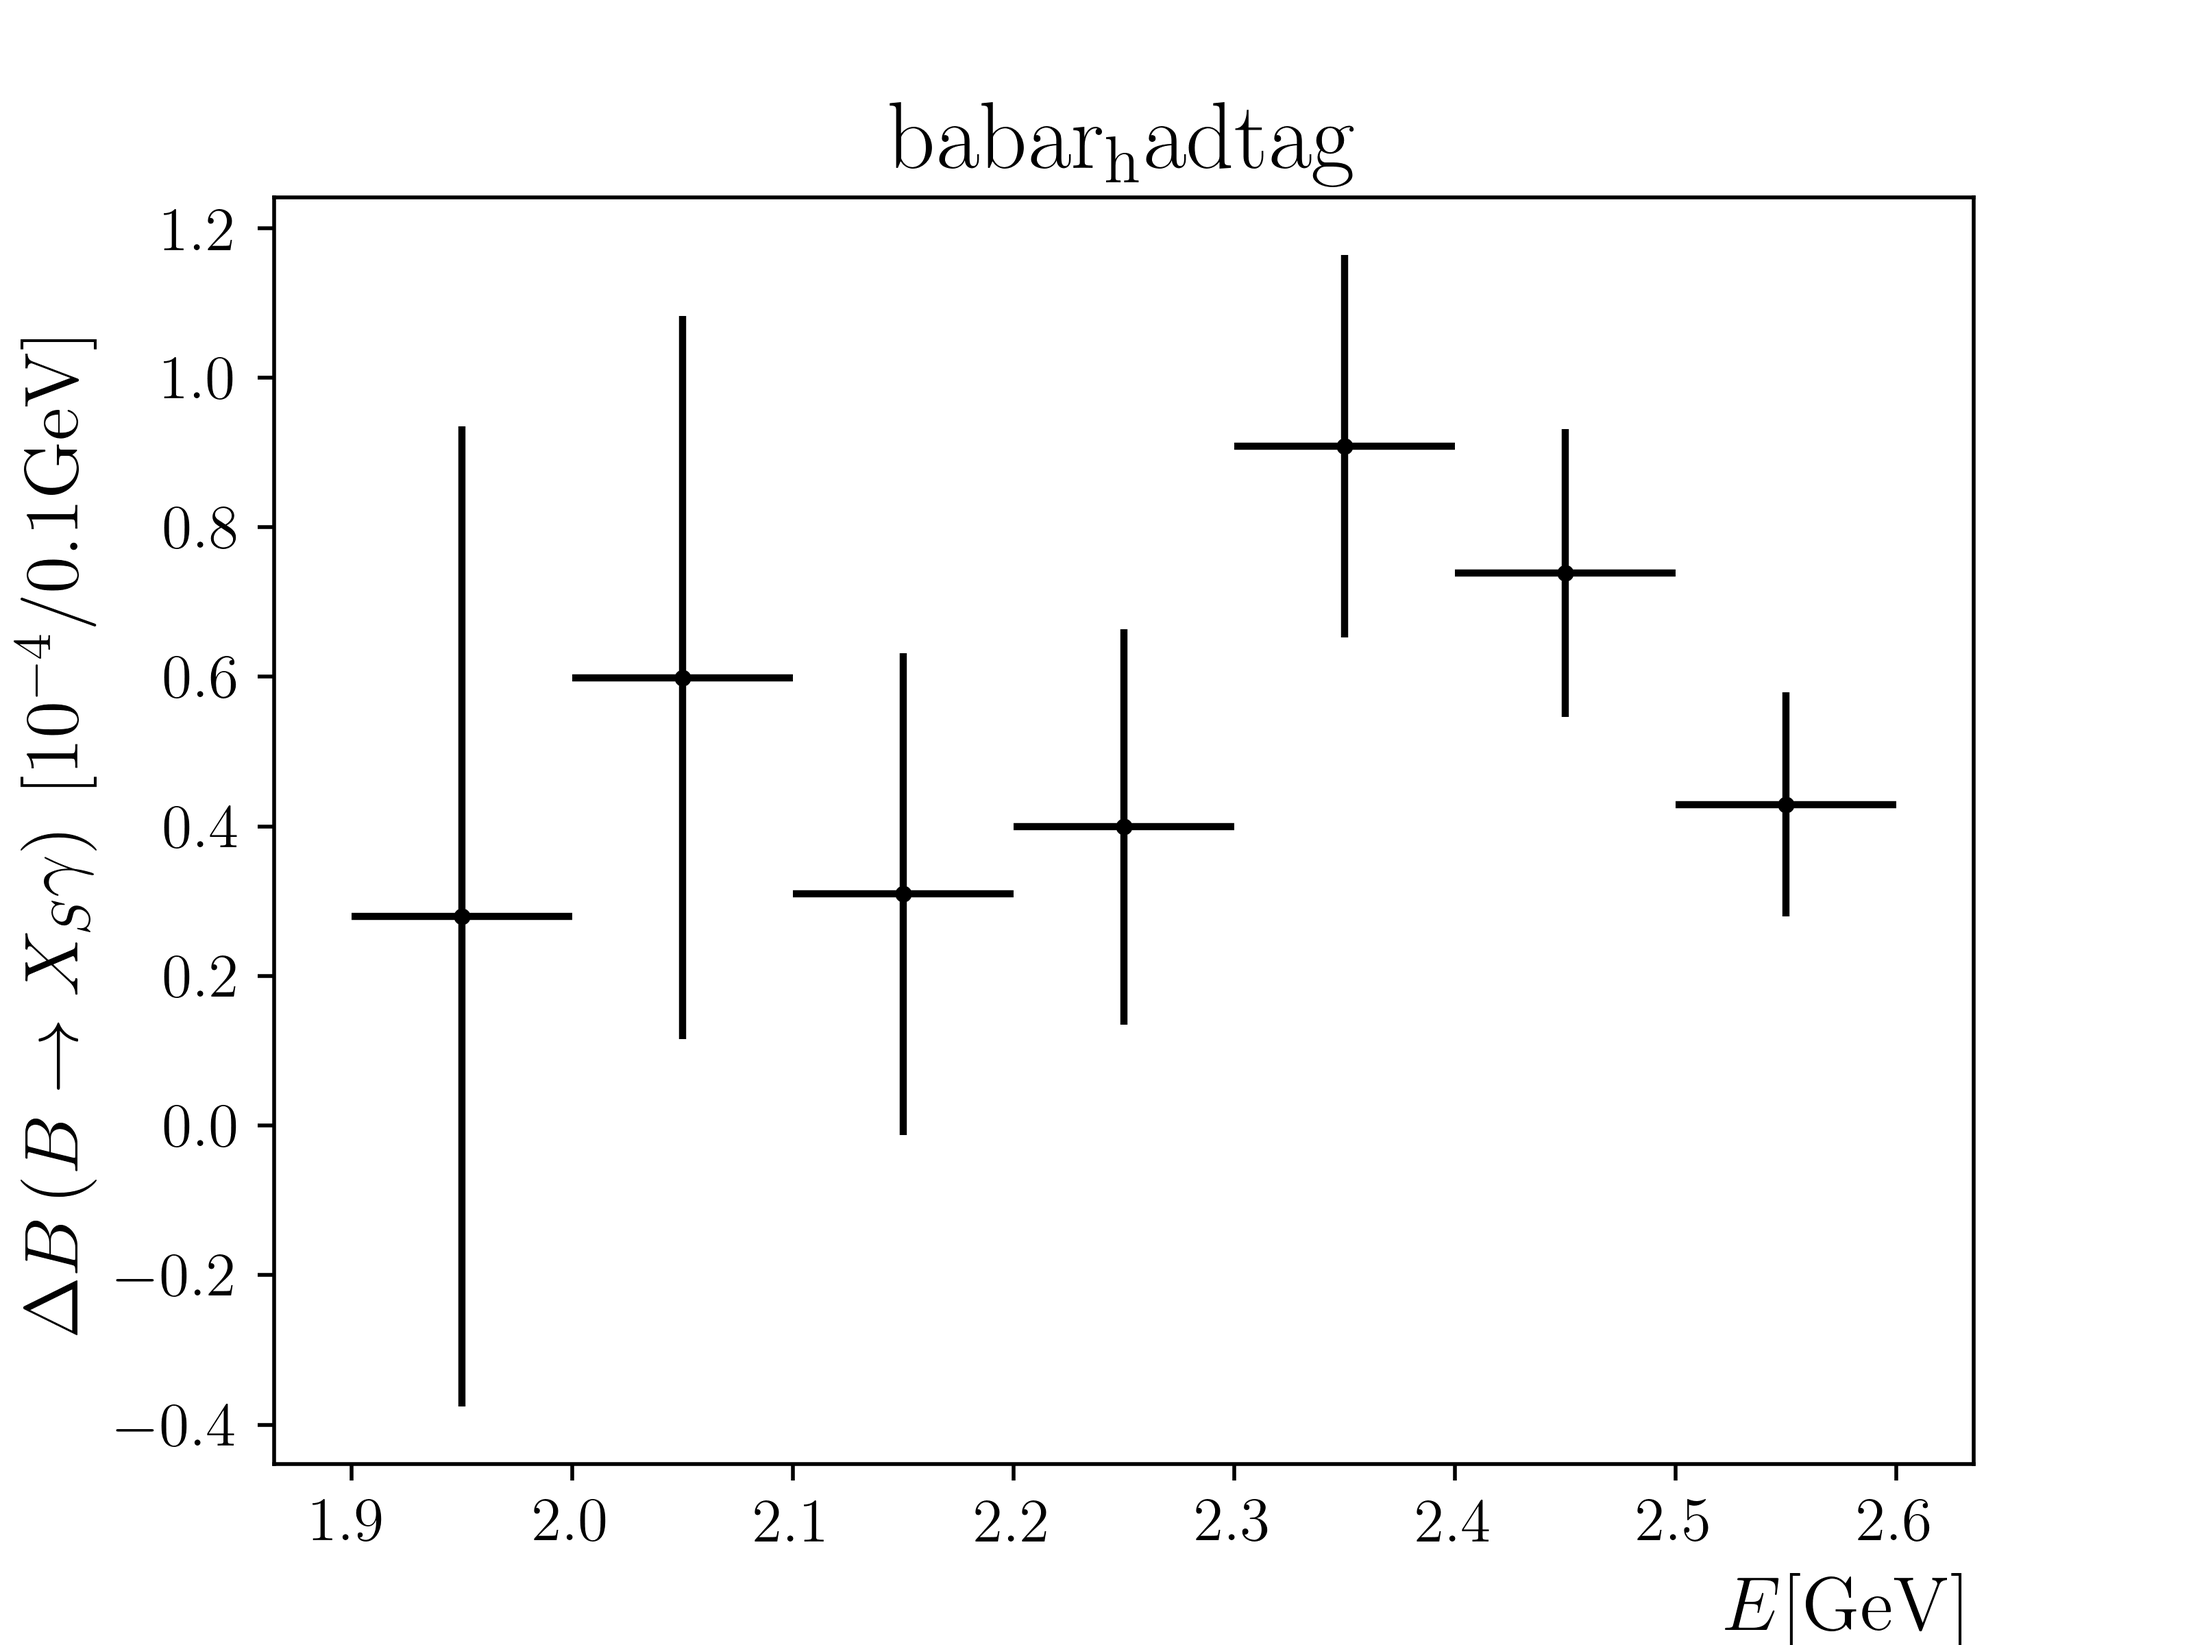
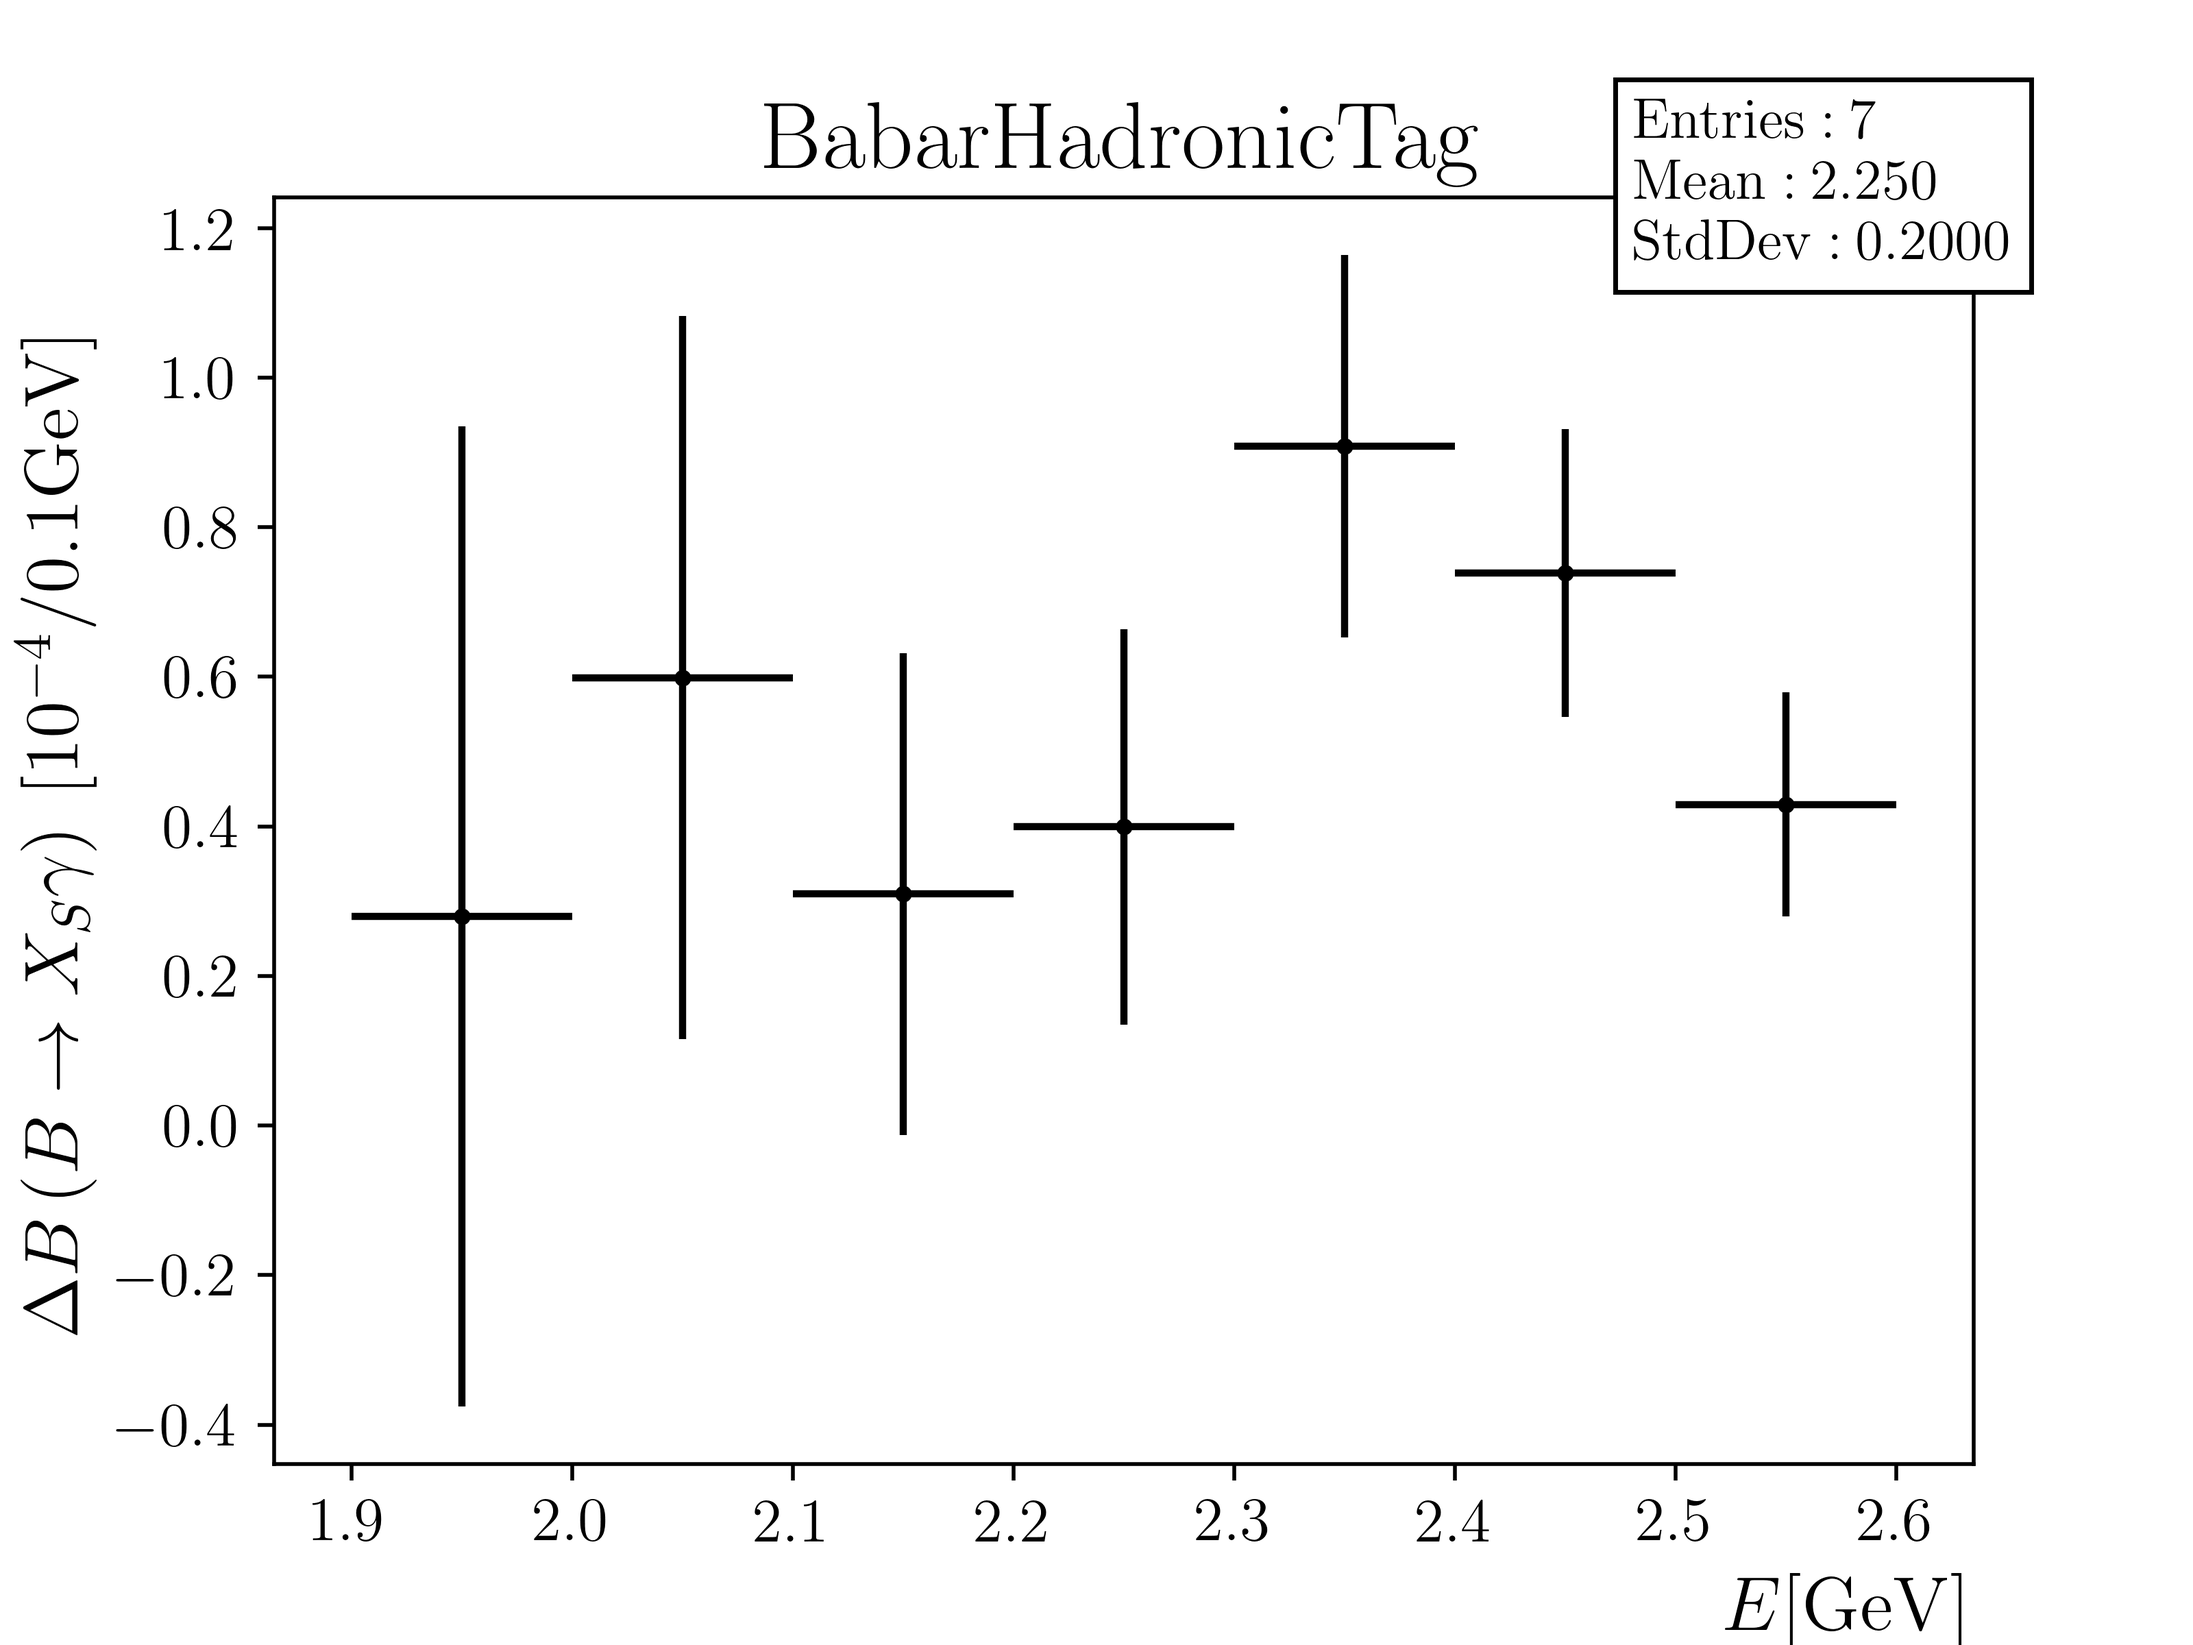
Hopefully good changes

Changed region(s): [[0.7188, 0.0312, 0.9375, 0.1875], [0.3438, 0.0625, 0.6562, 0.125], [0.8438, 0.0312, 0.875, 0.0625]]

diff --git a/Meas.py b/Meas.py
@@ -21,28 +21,34 @@ class Meas:
                     '0525', '0625']'''
         bins = []
         curr_block = []
+        count = 0
         #for j in range(np.size(end_nll)):
         with open('theory/'+ key + '_NNLLNNLO_la07.txt', 'r') as file:
-            for i, zeile in enumerate(file):
+            for i, line in enumerate(file):
                 if i < 18:  # jumps to line 19, only correct for NNLLNNLO Data
                     continue
-                zeile = zeile.strip()  # removes empty lines
-                if zeile.startswith("# bin"):  # skips line starting with # bin
+                line = line.strip()  # removes empty lines
+                if line.startswith("# bin"):  # skips line starting with # bin
+                    #line = line.strip("# bin = %d {fEg}" % count)
                     continue
-                if zeile == "":
+                if line == "":
                     if curr_block:  # if current block not empty
                         bins.append(np.array(curr_block, dtype=float))
                         curr_block = []
                 else:
                     # extract numbers out of line and put them into an array
-                    curr_block.append(list(map(float, zeile.split())))
+                    curr_block.append(list(map(float, line.split())))
 
         if curr_block:
             bins.append(np.array(curr_block, dtype=float))
         
         return bins
         
-        
+string = '# bin = 0 {fEg, 1.9, 2.}'
+string = string.strip('# bin = 0 {fEg, }')
+print(string)
+
+
 '''
 bins = Meas.grab_theory('babar_hadtag')
 

diff --git a/Plot.py b/Plot.py
@@ -58,13 +58,13 @@ class Plot:
               
         ax.set_xlabel('$E[\\mathrm{GeV}]$', fontsize = 16, loc = "right")
         ax.set_title('$\\mathrm{%s}$' % self.dictio_of_dictios[key]["Label"],fontsize = 20)
-        plt.savefig('data/'+self.dictio_of_dictios[key]["Label"], dpi = 500)
+        plt.savefig('data/'+key, dpi = 500)
 
 h1 = Plot()
 h2 = Plot()
 h3 = Plot()
 h4 = Plot()
-h1.simple_plot('Babar_hadtag')
-h2.simple_plot('Belle')
-h3.simple_plot('Babar_sem')
-h4.simple_plot('Babar_incl')
+h1.simple_plot('Babar_hadtag', box_opt= True)
+h2.simple_plot('Belle', box_opt=True)
+h3.simple_plot('Babar_sem', box_opt= True)
+h4.simple_plot('Babar_incl', box_opt= True)
